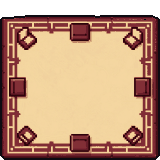
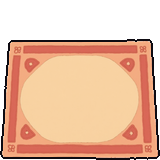
Import the first Ghibli art wave: 66 assets convert, 3 prompts fixed
Tim ran the regenerated workflows (a couple of passes each; some still
going). Imported the newest candidate for each of the 66 assets with
Ghibli-era generations: most of the house, the whole exterior set, and
the entire village and school kits. The pixel set is snapshotted in
images-v2-pixel-backup/ for one-file rollbacks.

Hand-picked swap: car_00009 (straight top-down) over the newest roll,
which came out at a beauty-shot diagonal.

Three systematic bad rolls traced to prompts, all fixed in
make_workflows.py and reinstalled for Tim's next queue pass:
- backpack: the soft red wash sat too close to the magenta backdrop and
  keyed away (the salmon-rug lesson again). Now olive green; story text
  never named its colour.
- goalFootball: a goal WITH net is unkeyable -- backdrop shows through
  every hole in the mesh. Now bare posts, which suits a park pitch.
- weightBench: the model reads "weight bench" as an office chair, four
  rolls out of four. Prompt now says long low horizontal bench.
Interim: backpack rolls back to the pixel sprite, weightBench falls back
to code art, the bad goal sits unused until its map exists.

Still pixel and awaiting Tim's remaining runs: the living room set,
front door, windows, rugs, plants, and the second half of the kitchen.
Live site stays on the pixel build until the conversion is complete.

diff --git a/comfy/make_workflows.py b/comfy/make_workflows.py
@@ -69,7 +69,9 @@ WORKFLOWS = {
         ('bookshelf', 'tall wooden bookshelf full of colorful books and comics', 'front'),
         ('desk', 'wooden computer desk with monitor, keyboard, red mug and eyeglasses on it', 'front'),
         ('chair', 'simple wooden chair', 'front'),
-        ('backpack', 'red school backpack sitting on the floor', 'front'),
+        # olive, not red: the Ghibli-soft red wash sat too close to the magenta
+        # backdrop and the keyer ate the bag (same lesson as the salmon rug)
+        ('backpack', 'worn olive green canvas school backpack sitting on the floor', 'front'),
         ('dresser', 'wide low wooden dresser with two drawers and round knobs', 'front'),
         ('poster', 'retro space rocket poster with dark blue background', 'front'),
         ('mirrorW', 'gold framed wall mirror', 'front'),
@@ -154,7 +156,9 @@ WORKFLOWS = {
         ('seesaw', 'playground see-saw, red metal with two seats', 'front'),
         ('roundabout', 'playground roundabout merry-go-round, low round platform with '
                        'metal handles', 'front'),
-        ('goalFootball', 'white football goal with net', 'front'),
+        # no net: fine mesh over the magenta backdrop is unkeyable, and bare
+        # posts are authentic for a park pitch anyway
+        ('goalFootball', 'white football goal, bare white posts and crossbar, no net', 'front'),
         ('benchP', 'wooden park bench with cast iron ends', 'front'),
         ('planter', 'stone flower planter overflowing with colourful flowers', 'front'),
         ('pillarBox', 'red british royal mail pillar box', 'front', TALL),
@@ -188,7 +192,9 @@ WORKFLOWS = {
         ('fence', 'short section of white picket fence, four pickets', 'front'),
         ('trash', 'green wheeled garbage bin with a closed lid', 'front'),
         ('boxes', 'stack of two brown cardboard moving boxes', 'front'),
-        ('weightBench', 'black padded weight lifting bench with steel legs', 'front'),
+        # "weight bench" alone reads as an office chair to the model; be literal
+        ('weightBench', 'long low flat gym weight bench, horizontal dark padded bench '
+                        'on four steel legs, side view', 'front'),
         ('weights', 'steel barbell loaded with round black weight plates', 'front'),
         ('workbench', 'wooden garage workbench with hand tools scattered on top', 'front'),
     ],

diff --git a/images-v2-pixel-backup/ClaudeImagesV2PixelBackup.md b/images-v2-pixel-backup/ClaudeImagesV2PixelBackup.md
@@ -1,0 +1,7 @@
+# images-v2-pixel-backup
+
+(Tim's section, above the line.)
+
+---
+
+The final PIXEL-ART era sprites (outlined, v0.6), snapshotted Aug 16 2026 just before the Ghibli conversion landed. Roll any sprite back by copying it into images/.
